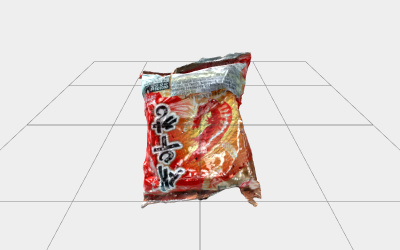
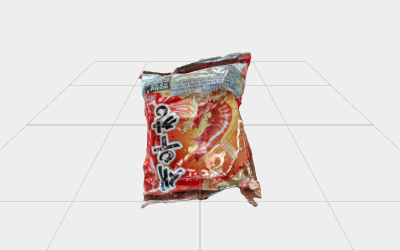
USDZLoader: Improved texture support.

Changed region(s): [[0.0, 0.196, 1.0, 0.84], [0.63, 0.336, 0.84, 0.364], [0.99, 0.588, 1.0, 0.616]]

diff --git a/examples/jsm/loaders/USDZLoader.js b/examples/jsm/loaders/USDZLoader.js
@@ -1,12 +1,16 @@
 import {
 	BufferAttribute,
 	BufferGeometry,
+	ClampToEdgeWrapping,
 	FileLoader,
 	Group,
 	Loader,
 	Mesh,
 	MeshStandardMaterial,
-	TextureLoader
+	MirroredRepeatWrapping,
+	RepeatWrapping,
+	sRGBEncoding,
+	TextureLoader,
 } from 'three';
 
 import * as fflate from '../libs/fflate.module.js';
@@ -265,15 +269,23 @@ class USDZLoader extends Loader {
 
 					// Move points to Mesh
 
-					if ( data[ 'point3f[] points' ] ) {
+					if ( 'point3f[] points' in data ) {
 
 						object[ 'point3f[] points' ] = data[ 'point3f[] points' ];
 
 					}
 
+					// Move st to Mesh
+
+					if ( 'float2[] primvars:st' in data ) {
+
+						object[ 'float2[] primvars:st' ] = data[ 'float2[] primvars:st' ];
+
+					}
+
 					// Move st indices to Mesh
 
-					if ( data[ 'int[] primvars:st:indices' ] ) {
+					if ( 'int[] primvars:st:indices' in data ) {
 
 						object[ 'int[] primvars:st:indices' ] = data[ 'int[] primvars:st:indices' ];
 
@@ -324,6 +336,12 @@ class USDZLoader extends Loader {
 			} else {
 
 				geometry.computeVertexNormals();
+
+			}
+
+			if ( 'float2[] primvars:st' in data ) {
+
+				data[ 'texCoord2f[] primvars:st' ] = data[ 'float2[] primvars:st' ];
 
 			}
 
@@ -426,22 +444,41 @@ class USDZLoader extends Loader {
 
 					const surface = data[ 'def Shader "PreviewSurface"' ];
 
-					if ( 'color3f inputs:diffuseColor' in surface ) {
+					if ( 'color3f inputs:diffuseColor.connect' in surface ) {
+
+						const path = surface[ 'color3f inputs:diffuseColor.connect' ];
+						const sampler = findTexture( root, /(\w+).output/.exec( path )[ 1 ] );
+
+						material.map = buildTexture( sampler );
+						material.map.encoding = sRGBEncoding;
+
+					} else if ( 'color3f inputs:diffuseColor' in surface ) {
 
 						const color = surface[ 'color3f inputs:diffuseColor' ].replace( /[()]*/g, '' );
 						material.color.fromArray( JSON.parse( '[' + color + ']' ) );
 
 					}
 
+					if ( 'normal3f inputs:normal.connect' in surface ) {
+
+						console.log( surface );
+
+						const path = surface[ 'normal3f inputs:normal.connect' ];
+						const sampler = findTexture( root, /(\w+).output/.exec( path )[ 1 ] );
+
+						material.normalMap = buildTexture( sampler );
+
+					}
+
 					if ( 'float inputs:roughness' in surface ) {
 
-						material.roughness = surface[ 'float inputs:roughness' ];
+						material.roughness = parseFloat( surface[ 'float inputs:roughness' ] );
 
 					}
 
 					if ( 'float inputs:metallic' in surface ) {
 
-						material.metalness = surface[ 'float inputs:metallic' ];
+						material.metalness = parseFloat( surface[ 'float inputs:metallic' ] );
 
 					}
 
@@ -449,25 +486,84 @@ class USDZLoader extends Loader {
 
 				if ( 'def Shader "diffuseColor_texture"' in data ) {
 
-					const texture = data[ 'def Shader "diffuseColor_texture"' ];
-					const file = texture[ 'asset inputs:file' ].replace( /@*/g, '' );
+					const sampler = data[ 'def Shader "diffuseColor_texture"' ];
 
-					material.map = new TextureLoader().load( assets[ file ] );
+					material.map = buildTexture( sampler );
+					material.map.encoding = sRGBEncoding;
 
 				}
 
 				if ( 'def Shader "normal_texture"' in data ) {
 
-					const texture = data[ 'def Shader "normal_texture"' ];
-					const file = texture[ 'asset inputs:file' ].replace( /@*/g, '' );
+					const sampler = data[ 'def Shader "normal_texture"' ];
 
-					material.normalMap = new TextureLoader().load( assets[ file ] );
+					material.normalMap = buildTexture( sampler );
 
 				}
 
 			}
 
 			return material;
+
+		}
+
+		function findTexture( data, id ) {
+
+			for ( const name in data ) {
+
+				const object = data[ name ];
+
+				if ( name.startsWith( `def Shader "${ id }"` ) ) {
+
+					return object;
+
+				}
+
+				if ( typeof object === 'object' ) {
+
+					const texture = findTexture( object, id );
+
+					if ( texture ) return texture;
+
+				}
+
+			}			
+
+		}
+
+		function buildTexture( data ) {
+
+			if ( 'asset inputs:file' in data ) {
+
+				const path = data[ 'asset inputs:file' ].replace( /@*/g, '' );
+
+				const loader = new TextureLoader();
+
+				const texture = loader.load( assets[ path ] );
+
+				const map = {
+					'"clamp"': ClampToEdgeWrapping,
+					'"mirror"': MirroredRepeatWrapping,
+					'"repeat"': RepeatWrapping
+				};
+
+				if ( 'token inputs:wrapS' in data ) {
+
+					texture.wrapS = map[ data[ 'token inputs:wrapS' ] ];
+
+				}
+
+				if ( 'token inputs:wrapT' in data ) {
+
+					texture.wrapT = map[ data[ 'token inputs:wrapT' ] ];
+
+				}
+
+				return texture;
+
+			}
+
+			return null;
 
 		}
 

diff --git a/examples/webgl_loader_usdz.html b/examples/webgl_loader_usdz.html
@@ -66,6 +66,7 @@
 				renderer = new THREE.WebGLRenderer( { antialias: true } );
 				renderer.setPixelRatio( window.devicePixelRatio );
 				renderer.setSize( window.innerWidth, window.innerHeight );
+				renderer.outputEncoding = THREE.sRGBEncoding;
 				document.body.appendChild( renderer.domElement );
 
 				controls = new OrbitControls( camera, renderer.domElement );
